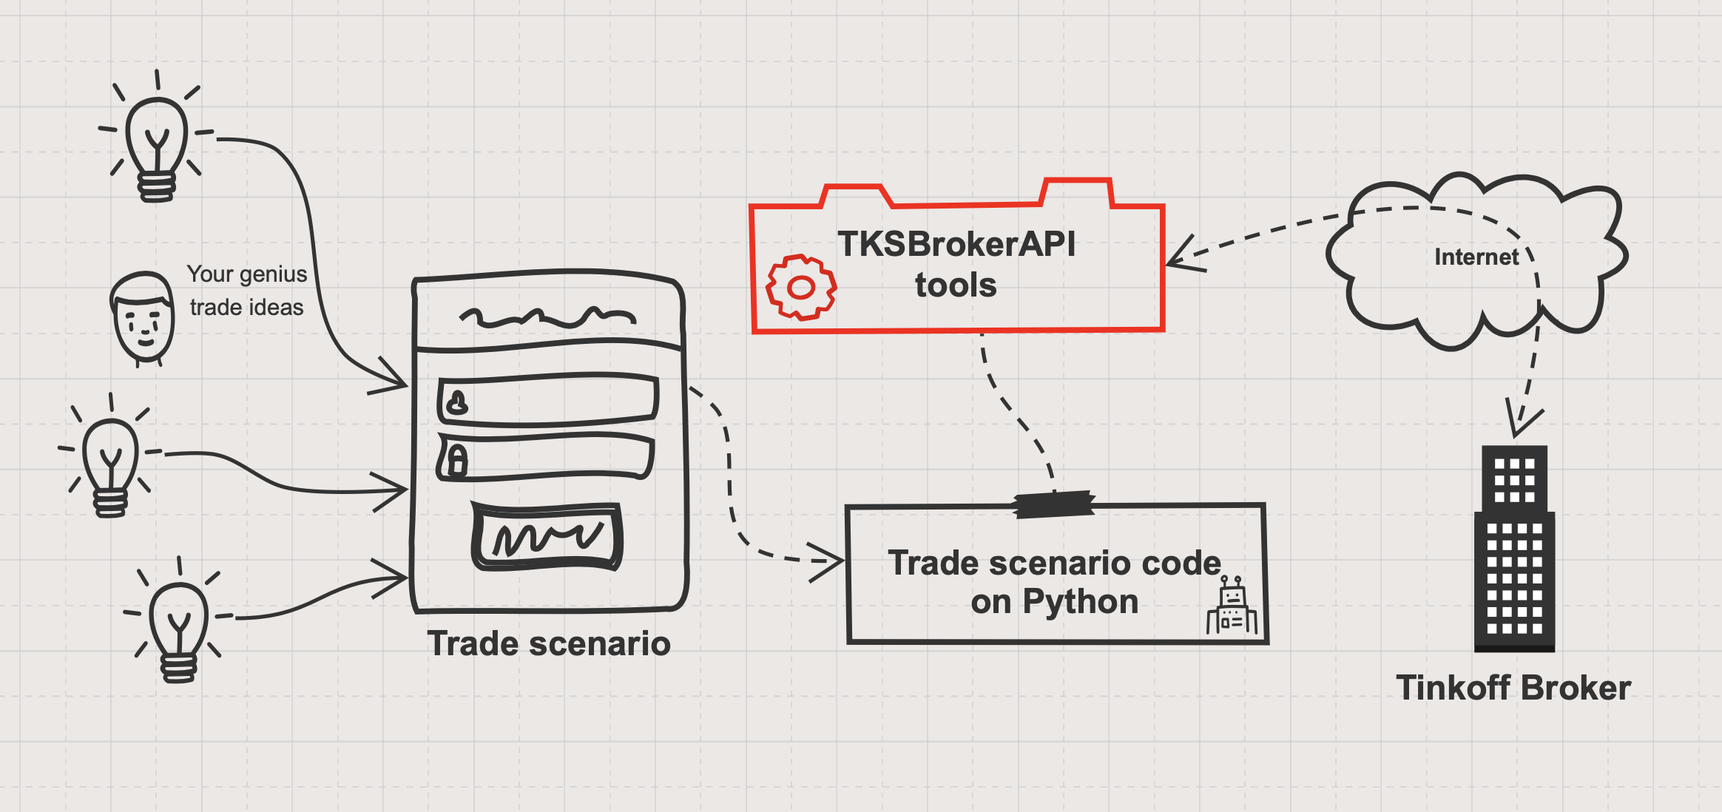
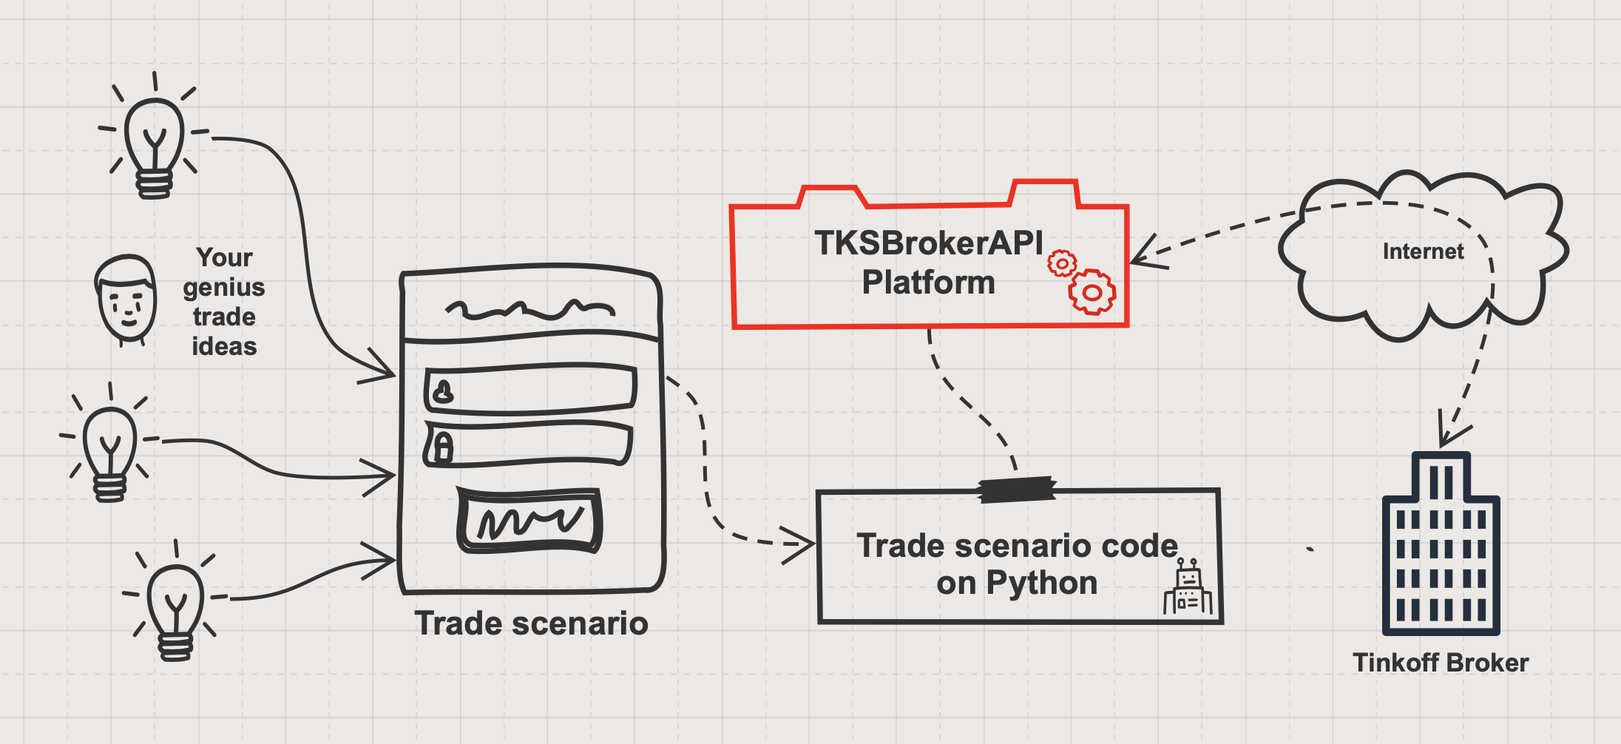
readmes were updated with new schemes

Changed region(s): [[0.031, 0.0924, 0.9617, 0.8936], [0.8066, 0.493, 0.9617, 0.9245]]

diff --git a/README_EN.md b/README_EN.md
@@ -1,6 +1,6 @@
-# TKSBrokerAPI
+# TKSBrokerAPI. The platform for automation trading scenarios
 
-**[TKSBrokerAPI](https://github.com/Tim55667757/TKSBrokerAPI)** is a python API for working with Tinkoff Open API and accessing the [Tinkoff Investments](http://tinkoff.ru/sl/AaX1Et1omnH) broker's trade server via the REST protocol. The TKSBrokerAPI module can be used from the console, it has a rich keys and commands. Also, you can used it with `python import`. TKSBrokerAPI allows you to automate routine trading operations and implement your trading scenarios, or just receive the necessary information from the broker. It is easy enough to integrate into CI/CD automation systems.
+**[TKSBrokerAPI](https://github.com/Tim55667757/TKSBrokerAPI)** is a trading platform for automation and simplifying the implementation of trading scenarios, as well as working with [Tinkoff Invest API](http://tinkoff.ru/sl/AaX1Et1omnH) server via the REST protocol. The TKSBrokerAPI platform may be used in two ways: from the console, it has a rich keys and commands, or you can use it as Python module with `python import`. TKSBrokerAPI allows you to automate routine trading operations and implement your trading scenarios, or just receive the necessary information from the broker. It is easy enough to integrate into various CI/CD automation systems.
 
 [![Build Status](https://travis-ci.com/Tim55667757/TKSBrokerAPI.svg?branch=master)](https://travis-ci.com/Tim55667757/TKSBrokerAPI)
 [![pypi](https://img.shields.io/pypi/v/TKSBrokerAPI.svg)](https://pypi.python.org/pypi/TKSBrokerAPI)
@@ -10,7 +10,7 @@
 [![api-doc](https://badgen.net/badge/api-doc/TKSBrokerAPI/blue)](https://tim55667757.github.io/TKSBrokerAPI/docs/tksbrokerapi/TKSBrokerAPI.html)
 [![gift](https://badgen.net/badge/gift/donate/green)](https://yoomoney.ru/quickpay/shop-widget?writer=seller&targets=Donat%20(gift)%20for%20the%20authors%20of%20the%20TKSBrokerAPI%20project&default-sum=999&button-text=13&payment-type-choice=on&successURL=https%3A%2F%2Ftim55667757.github.io%2FTKSBrokerAPI%2F&quickpay=shop&account=410015019068268)
 
-❗ If you are missing some feature of the program or some specific example in the documentation to understand how to work with the TKSBrokerAPI module (in the CLI or as a python API), then describe your case in the section 👉 [**Issues**](https://github.com/Tim55667757/TKSBrokerAPI/issues/new) 👈, please. As far as possible, we will try to implement the desired feature and add examples in the next release.
+❗ If you are missing some feature of the platform or some specific example in the documentation to understand how to work with the TKSBrokerAPI module (in the CLI or as a Python API), then describe your case in the section 👉 [**Issues**](https://github.com/Tim55667757/TKSBrokerAPI/issues/new) 👈, please. As far as possible, we will try to implement the desired feature and add examples in the next release.
 
 **Useful links**
 
@@ -59,7 +59,7 @@ If you are engaged in investment, automation and algorithmic trading at the same
 
 When working with any API, there are always technical difficulties: a high entry threshold, the need to study of the big volume of documentation, writing and debugging code to make network requests using the API format. It will take a long time before you get to the point of implementing a trading algorithm.
 
-**[TKSBrokerAPI](https://github.com/Tim55667757/TKSBrokerAPI)** is a simpler tool that can be used as a regular python module or run from the command line, and immediately out of the box get the opportunity to work with an account with a Tinkoff Investments broker: receive information about the state of the portfolio, including elementary analytics, open and close positions, receive general information about the instruments traded on the exchange, request prices and receive reports on operations for the specified period. All data is output immediately to the console: in text view or saved in Markdown format files.
+**[TKSBrokerAPI](https://github.com/Tim55667757/TKSBrokerAPI)** is a simple tool that can be used as a Python module or run from the command line, and immediately out of the box get the opportunity to work with an account with a Tinkoff Investments broker: receive information about the state of the portfolio, including elementary analytics, open and close positions, receive general information about the instruments traded on the exchange, request prices and receive reports on operations for the specified period. All data is output immediately to the console: in text view or saved in Markdown format files.
 
 <details>
   <summary>An example of requesting a client portfolio and viewing information in the console</summary>
@@ -248,7 +248,7 @@ At the time of the [latest release](https://pypi.org/project/tksbrokerapi/), the
 - Request general information about the user, a list of accounts (including the `accountId`s), available funds for margin trading and connection limits for the current tariff;
   - common key `--user-info` (`-u`) to request general information or key `--account` (`--accounts`, `-a`) to request list of accounts;
   - API-methods: [`RequestAccounts()`](https://tim55667757.github.io/TKSBrokerAPI/docs/tksbrokerapi/TKSBrokerAPI.html#TinkoffBrokerServer.RequestAccounts), [`RequestUserInfo()`](https://tim55667757.github.io/TKSBrokerAPI/docs/tksbrokerapi/TKSBrokerAPI.html#TinkoffBrokerServer.RequestUserInfo), [`RequestMarginStatus()`](https://tim55667757.github.io/TKSBrokerAPI/docs/tksbrokerapi/TKSBrokerAPI.html#TinkoffBrokerServer.RequestMarginStatus), [`RequestTariffLimits()`](https://tim55667757.github.io/TKSBrokerAPI/docs/tksbrokerapi/TKSBrokerAPI.html#TinkoffBrokerServer.RequestTariffLimits), [`OverviewUserInfo()`](https://tim55667757.github.io/TKSBrokerAPI/docs/tksbrokerapi/TKSBrokerAPI.html#TinkoffBrokerServer.OverviewUserInfo) and [`OverviewAccounts()`](https://tim55667757.github.io/TKSBrokerAPI/docs/tksbrokerapi/TKSBrokerAPI.html#TinkoffBrokerServer.OverviewAccounts).
-- Request raw bonds data, extend it and creating pandas dataframe with more information for datascientists or stock analytics: main info, current prices, bonds payment calendar, coupon yields, current yields and some statistics, and also saves this data to XLSX-file;
+- Request raw bonds data, extend it and creating Pandas DataFrame with more information for datascientists or stock analytics: main info, current prices, bonds payment calendar, coupon yields, current yields and some statistics, and also saves this data to XLSX-file;
   - common key `--bonds-xlsx` (`-b`) to extend data for all at once or for specified bonds;
   - API-methods: [`RequestBondCoupons()`](https://tim55667757.github.io/TKSBrokerAPI/docs/tksbrokerapi/TKSBrokerAPI.html#TinkoffBrokerServer.RequestBondCoupons) and [`ExtendBondsData()`](https://tim55667757.github.io/TKSBrokerAPI/docs/tksbrokerapi/TKSBrokerAPI.html#TinkoffBrokerServer.ExtendBondsData).
 - Generate bonds payment calendar for all at once or for a list of bonds and save it to a Markdown-file or XLSX-file;
@@ -272,7 +272,7 @@ pip show tksbrokerapi
 
 You can also use the TKSBrokerAPI module by downloading it directly from [repository](https://github.com/Tim55667757/TKSBrokerAPI/) via `git clone` and taking the codebase of any tested [release](https://github.com/Tim55667757/TKSBrokerAPI/releases).
 
-In the first case, the tool will be available in the console through the `tksbrokerapi` command, and in the second case, you will have to run it as a normal python script, through `python TKSBrokerAPI.py` from the source directory.
+In the first case, the tool will be available in the console through the `tksbrokerapi` command, and in the second case, you will have to run it as a Python script, through `python TKSBrokerAPI.py` from the source directory.
 
 Further, all examples are written for the case when TKSBrokerAPI is installed via PyPI.
 
@@ -286,7 +286,7 @@ The TINKOFF INVEST API service uses a token for authentication. A token is a set
 The TKSBrokerAPI module takes care of all the work with tokens. There are three options for setting a user token:
 
 - when calling `tksbrokerapi` in the console, specify the key: `--token "your_token_here"`;
-- either specify `token` when initializing the class in a python script: [`TKSBrokerAPI.TinkoffBrokerServer(token="your_token_here", ...)`](https://tim55667757.github.io/TKSBrokerAPI/docs/tksbrokerapi/TKSBrokerAPI.html#TinkoffBrokerServer.__init__);
+- either specify `token` when initializing the class in a Python script: [`TKSBrokerAPI.TinkoffBrokerServer(token="your_token_here", ...)`](https://tim55667757.github.io/TKSBrokerAPI/docs/tksbrokerapi/TKSBrokerAPI.html#TinkoffBrokerServer.__init__);
 - or you can pre-set a special variable in the user environment: `TKS_API_TOKEN=your_token_here`.
 
 ❗ **Working with the TINKOFF INVEST API without creating and using a token is not possible**. Before you start working with the TKSBrokerAPI module, please open the [brokerage account in Tinkoff Investments](http://tinkoff.ru/sl/AaX1Et1omnH), and then select the type of token you need and create it as indicated [in official documentation](https://tinkoff.github.io/investAPI/token/).
@@ -304,13 +304,13 @@ But the easiest way is to use the `--user-info` key and TKSBrokerAPI will show y
 There are three options for setting the user account ID:
 
 - when calling `tksbrokerapi` in the console, specify the key: `--account-id your_id_number"`;
-- either specify `accountId` when initializing the class in a python script: [`TKSBrokerAPI.TinkoffBrokerServer(token="...", accountId=your_id_number, ...)`](https://tim55667757.github.io/TKSBrokerAPI/docs/tksbrokerapi/TKSBrokerAPI.html#TinkoffBrokerServer.__init__);
+- either specify `accountId` when initializing the class in a Python script: [`TKSBrokerAPI.TinkoffBrokerServer(token="...", accountId=your_id_number, ...)`](https://tim55667757.github.io/TKSBrokerAPI/docs/tksbrokerapi/TKSBrokerAPI.html#TinkoffBrokerServer.__init__);
 - or you can pre-set a special variable in the user environment: `TKS_ACCOUNT_ID=your_id_number`.
 
 
 ## Usage examples
 
-Next, consider some scenarios for using the TKSBrokerAPI module: when it is launched in the console or as a python script.
+Next, consider some scenarios for using the TKSBrokerAPI module: when it is launched in the console or as a Python script.
 
 ❗ By default, level `INFO` information is displayed in the console. In case of any errors, it is recommended to increase the logging level to `DEBUG`. To do this, specify any of the keys together with the command: `--debug-level=10`, `--verbosity=10` or `-v 10`. After that, copy the logs with the problem and create a new bug in the section 👉 [**Issues**](https://github.com/Tim55667757/TKSBrokerAPI/issues/new) 👈, please. It is useful to specify the version of the problem build, which can be found by the `--version` (or `--ver`) key.
 
@@ -318,7 +318,7 @@ Also, `DEBUG` level information is always output to the log-file `TKSBrokerAPI.l
 
 ### Command line
 
-When you run the program in the console, you can specify many parameters and perform one action. The format of any commands is as follows:
+When you run the platform in the console, you can specify many parameters and perform one action. The format of any commands is as follows:
 
 ```commandline
 tksbrokerapi [optional keys and parameters] [one action]
@@ -346,15 +346,15 @@ usage:
 /as module/ python TKSBrokerAPI.py [some options] [one command]
 /as CLI tool/ tksbrokerapi [some options] [one command]
 
-TKSBrokerAPI is a python API to work with some methods of Tinkoff Open API
-using REST protocol. It can view history, orders and market information. Also,
-you can open orders and trades. See examples:
-https://github.com/Tim55667757/TKSBrokerAPI/blob/master/README_EN.md#Usage-examples
+TKSBrokerAPI is a trading platform for automation on Python to simplify the
+implementation of trading scenarios and work with Tinkoff Invest API server
+via the REST protocol. See examples:
+https://github.com/Tim55667757/TKSBrokerAPI/blob/master/README_EN.md
 
 options:
   -h, --help            show this help message and exit
   --no-cache            Option: not use local cache `dump.json`, but update
-                        raw instruments data when starting the program.
+                        raw instruments data when starting the platform.
                         `False` by default.
   --token TOKEN         Option: Tinkoff service's api key. If not set then
                         used environment variable `TKS_API_TOKEN`. See how to
@@ -404,7 +404,7 @@ options:
   --bonds-xlsx [BONDS_XLSX ...], -b [BONDS_XLSX ...]
                         Action: get all available bonds if only key present or
                         list of bonds with FIGIs or tickers and transform it
-                        to the wider pandas dataframe with more information
+                        to the wider Pandas DataFrame with more information
                         about bonds: main info, current prices, bonds payment
                         calendar, coupon yields, current yields and some
                         statistics etc. And then export data to XLSX-file,
@@ -580,7 +580,7 @@ options:
 
 Starting with TKSBrokerAPI v1.2.62 the ability to use the local cache `dump.json` with data on traded instruments has been added, which allows you to avoid constant requests for this data from the broker's server and significantly save time. The cache is used by default when executing any command, there is no need to specifically set it.
 
-If the current day differs from the day the cache was last modified, it will be automatically updated at the next time when program is started. If the `dump.json` file does not exist in the local directory, it will also be created automatically.
+If the current day differs from the day the cache was last modified, it will be automatically updated at the next time when the TKSBrokerAPI platform is started. If the `dump.json` file does not exist in the local directory, it will also be created automatically.
 
 Usually, share exchanges rarely experience critical changes in instruments during the day, and updating the cache at least once a day is justified. But if you want to be completely sure about the consistency of the data, you can specify the `--no-cahce` key together with each command. In this case, data on instruments will be requested every time.
 
@@ -668,7 +668,7 @@ TKSBrokerAPI.py     L:3814 DEBUG   [2022-10-19 01:20:37,279] >>> TKSBrokerAPI mo
 
 #### Find an instrument
 
-To work with exchange instruments, receive information on them, request prices and make deals, you usually need to specify a ticker (key `--ticker`) or FIGI (key `--figi`). But there are hardly many people who know them by heart. Most often, there is only an assumption about a part of the ticker or the name of the company. In this case, you can use the search by pattern: part of the name, ticker or FIGI, or by specifying a regular expression. The search is performed by the standard python module [`re`](https://docs.python.org/3/library/re.html#re.compile), case-insensitive.
+To work with exchange instruments, receive information on them, request prices and make deals, you usually need to specify a ticker (key `--ticker`) or FIGI (key `--figi`). But there are hardly many people who know them by heart. Most often, there is only an assumption about a part of the ticker or the name of the company. In this case, you can use the search by pattern: part of the name, ticker or FIGI, or by specifying a regular expression. The search is performed by the standard Python module [`re`](https://docs.python.org/3/library/re.html#re.compile), case-insensitive.
 
 Starting with TKSBrokerAPI v1.2.62 the `--search` key has been added, after which you need to specify the pattern. For example, you want to find all the instruments of the Russian Sber group of companies, then you can try to specify a part of the word: `tksbrokerapi --search "sber"`. Or you want to know all the instruments of companies whose names contain the word "United" with "medical" or "rent". In this case, you can try to specify a regular expression: `tksbrokerapi --search "(United.*).*(?:.*medical|rent)"`.
 
@@ -1886,7 +1886,7 @@ TKSBrokerAPI.py     L:3042 DEBUG   [2022-07-27 23:25:40,687] TKSBrokerAPI module
 
 #### Download historical data in OHLCV-candles format
 
-Since TKSBrokerAPI v1.3.70 you can get the history price data in OHLCV-candlestics format. You have to specify current instrument by `--ticker` key or `--figi` key (FIGI id), candle's interval by `--interval` key and `--only-missing` key if you want downloads only last missing candles in file. If `--output` key present then TKSBrokerAPI save history to file, otherwise return only pandas dataframe. `--csv-sep` key define separator in csv-files.
+Since TKSBrokerAPI v1.3.70 you can get the history price data in OHLCV-candlestics format. You have to specify current instrument by `--ticker` key or `--figi` key (FIGI id), candle's interval by `--interval` key and `--only-missing` key if you want downloads only last missing candles in file. If `--output` key present then TKSBrokerAPI save history to file, otherwise return only Pandas DataFrame. `--csv-sep` key define separator in csv-files.
 
 History returned between two given dates: `start` and `end`. Minimum requested date in the past is `1970-01-01`. **Warning!** Broker server use ISO UTC time by default.
 
@@ -1937,7 +1937,7 @@ TKSBrokerAPI.py     L:2343 INFO    [2022-09-04 14:08:42,026] Here's requested hi
 2022.09.04 09:00 253.82 255.43 252.81 252.95    3506
 2022.09.04 10:00 252.95 255.36 252.55 254.02    3522
 2022.09.04 11:00 254.02 255.05 253.22 254.26     574
-TKSBrokerAPI.py     L:2357 DEBUG   [2022-09-04 14:08:42,026] --output key is not defined. Parsed history file not saved to file, only pandas dataframe returns.
+TKSBrokerAPI.py     L:2357 DEBUG   [2022-09-04 14:08:42,026] --output key is not defined. Parsed history file not saved to file, only Pandas DataFrame returns.
 TKSBrokerAPI.py     L:3354 DEBUG   [2022-09-04 14:08:42,026] All operations with Tinkoff Server using Open API are finished success (summary code is 0).
 TKSBrokerAPI.py     L:3359 DEBUG   [2022-09-04 14:08:42,026] TKSBrokerAPI module work duration: [0:00:01.582813]
 TKSBrokerAPI.py     L:3360 DEBUG   [2022-09-04 14:08:42,026] TKSBrokerAPI module finished: [2022-09-04 11:08:42] UTC, it is [2022-09-04 14:08:42] local time
@@ -2472,7 +2472,7 @@ TKSBrokerAPI.py     L:3641 INFO    [2022-10-24 00:09:47,102] User accounts were 
 
 #### Get extended bonds data
 
-TKSBrokerAPI v1.4.90 contains a new console command `--bonds-xlsx` (`-b`). This action get all available bonds if only key present or list of bonds with FIGIs or tickers and transform it to the wider pandas dataframe with more information about bonds: main info, current prices, bonds payment calendar, coupon yields, current yields and some statistics etc.
+TKSBrokerAPI v1.4.90 contains a new console command `--bonds-xlsx` (`-b`). This action get all available bonds if only key present or list of bonds with FIGIs or tickers and transform it to the wider Pandas DataFrame with more information about bonds: main info, current prices, bonds payment calendar, coupon yields, current yields and some statistics etc.
 
 Also, at the end data exports to XLSX-file, for the further used by datascientists or stock analytics. Default `ext-bonds.xlsx` or you can change it with the `--output` key.
 
@@ -2481,7 +2481,7 @@ Also, at the end data exports to XLSX-file, for the further used by datascientis
 Which mean headers in XLSX-file, see here: "[Main bond information](https://tinkoff.github.io/investAPI/instruments/#bond)" and "[Coupon information](https://tinkoff.github.io/investAPI/instruments/#coupon)".
 
 <details>
-  <summary>Headers in XLSX-file or pandas dataframe:</summary>
+  <summary>Headers in XLSX-file or Pandas DataFrame:</summary>
 
 - `actualDateTime` — the date and time at which the extended data on the bond was received;
 - `figi` — FIGI identifier of the instrument;
@@ -2545,7 +2545,7 @@ Which mean headers in XLSX-file, see here: "[Main bond information](https://tink
 - `sumLastCoupons` — amount of remaining coupon payments (in the currency of `aciCurrency` coupon payments);
 - `lastPayments` — the amount of payments remaining on the current date `actualDateTime` `sumLastCoupons`, reduced by the ACI value `aciValue`;
 - `currentYield` — current yield at the time of `actualDateTime` (the current price is taken, the average daily yield is calculated and multiplied by 365 days);
-- `calendar` — bond payments calendar is a python list of dictionaries, which contains [all coupons data](https://tinkoff.github.io/investAPI/instruments/#coupon), where fields mean:
+- `calendar` — bond payments calendar is a Python list of dictionaries, which contains [all coupons data](https://tinkoff.github.io/investAPI/instruments/#coupon), where fields mean:
   - `couponDate` — coupon payment date;
   - `couponNumber` — coupon number;
   - `fixDate` — date of fixing the register, before which, inclusive, you need to have to buy a bond to receive payments;
@@ -2611,7 +2611,7 @@ Also, the calendar exports to XLSX-file, for the further used by datascientists 
 
 ❗ WARNING: this is too long operation if a lot of bonds requested from broker server (~90-120 extended data bonds per minute, depends on speed limit rate).
 
-Coupons data are described here in [the main coupon information](https://tinkoff.github.io/investAPI/instruments/#coupon). For the pandas dataframe calendar, the data headers are the same as those described in the `calendar` field in the section "[Get extended bonds data](#Get-extended-bonds-data)", below the spoiler. The titles for the calendar as an XLSX file are converted to a more human-readable format before being saved.
+Coupons data are described here in [the main coupon information](https://tinkoff.github.io/investAPI/instruments/#coupon). For the Pandas DataFrame calendar, the data headers are the same as those described in the `calendar` field in the section "[Get extended bonds data](#Get-extended-bonds-data)", below the spoiler. The titles for the calendar as an XLSX file are converted to a more human-readable format before being saved.
 
 <details>
   <summary>Headers in XLSX-file:</summary>
@@ -2731,12 +2731,31 @@ Using the TKSBrokerAPI module, you can implement any trading scenario in Python.
 
 ![](./docs/media/TKSBrokerAPI-flow.png)
 
-The development scheme with TKSBrokerAPI is very simple:
-1. You come up with an ingenious trading algorithm.
+The scheme of trade scenario automation with TKSBrokerAPI is very simple:
+1. You come up with a brilliant trading algorithm.
 2. Write it down step by step in the form of some kind of plan or trading scenario.
 3. Automate scenario as a Python script using TKSBrokerAPI.
 4. TKSBrokerAPI takes care of all the work with the Tinkoff Investments broker infrastructure.
 5. Profit!
+
+But where to get this "brilliant trading algorithm"? The TKSBrokerAPI platform will also help you solve the problem of obtaining primary, "raw" data on trading instruments (shares, bonds, funds, futures and currencies) from the broker server, for their future analysis in any analytical tool convenient for you. To do this, the methods of the TKSBrokerAPI module provide the ability to extend and save data in classic formats: XLSX and CSV (for analysis in spreadsheet editors), Markdown (for readability), and Pandas DataFrame (for data scientists and stock analysts). Some methods can be found in section "[Key features](#Key-features)" or in the full "[API documentation](https://tim55667757.github.io/TKSBrokerAPI/docs/tksbrokerapi/TKSBrokerAPI.html)".
+
+The "raw" data can be anything that [can be obtained](https://tinkoff.github.io/investAPI/swagger-ui/) from the broker's server. After extends, this data can be used to build, for example, a [consolidated payment calendar](#Build-a-bond-payment-calendar) for bonds and calculate their [coupon and current yields](#Get-extended-bonds-data), or you can generate analytics about the status of the user's portfolio and the [distribution of assets](#Get-the-current-portfolio-and-asset-allocation-statistics) by types, companies, industries, currencies, and countries.
+
+![](./docs/media/TKSBrokerAPI-extend-data-flow.png)
+
+How data is extended and used in TKSBrokerAPI:
+1. You request the data you need from the Tinkoff Investments broker server using the TKSBrokerAPI module:
+   - in this module, almost all methods return "raw" data from the server in the form of a Python dictionary.
+2. Then they are processed and extended:
+   - with various statistics, parameters and some analytical reports.
+3. After that, the data is stored in a form suitable for further analysis:
+   - most of the methods return extended data in the form of a Python dictionary or Pandas DataFrame;
+   - if you launched the TKSBrokerAPI platform in the console, then the data will be saved in XLSX, CSV or Markdown formats.
+4. Next, you can load the data into analytical system and use various data analysis methods to find and highlight dependencies, correlations, make predictions and suggest hypothesis.
+5. Further, based on data analysis, you come up with the same "brilliant trading algorithm".
+6. Automate the trading scenario (according to the previous scheme).
+7. Profit!
 
 #### Abstract scenario implementation example
 
@@ -2754,7 +2773,7 @@ In this documentation, we do not want to focus on specific trading scenarios, bu
 To understand the example, just save and run the script under the spoiler below. Before doing this, don't forget to get a token and find out your accountId (see the section ["Auth"](#Auth)). Most of the code is commented in detail and links to the relevant API methods are given.
 
 <details>
-  <summary>Example of trading script in python using TKSBrokerAPI</summary>
+  <summary>Example of trading script in Python using TKSBrokerAPI</summary>
 
 Download script here: [./docs/examples/scenario1.py](./docs/examples/scenario1.py)
 
